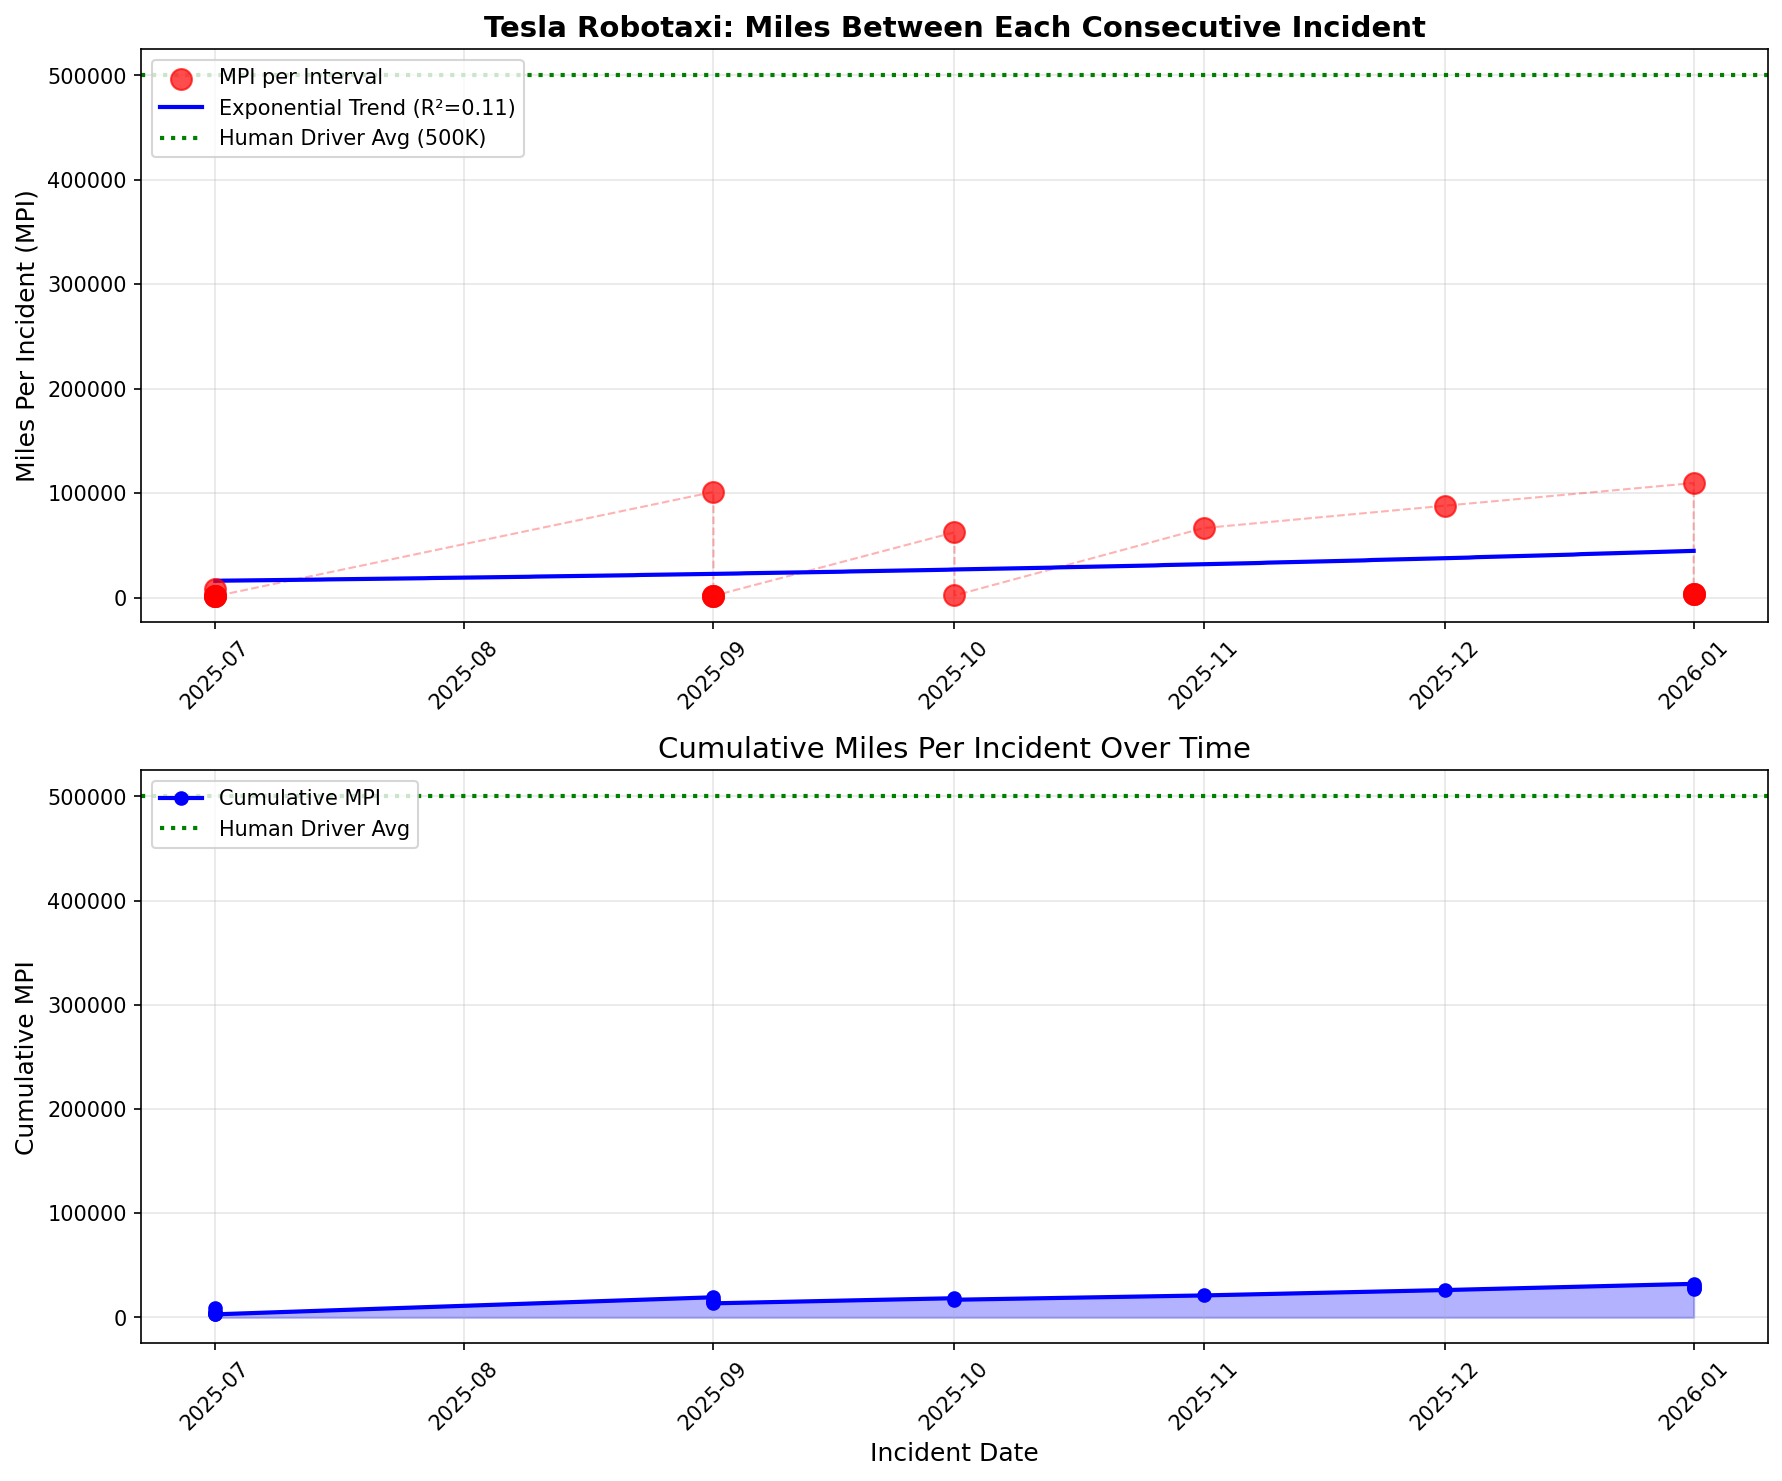
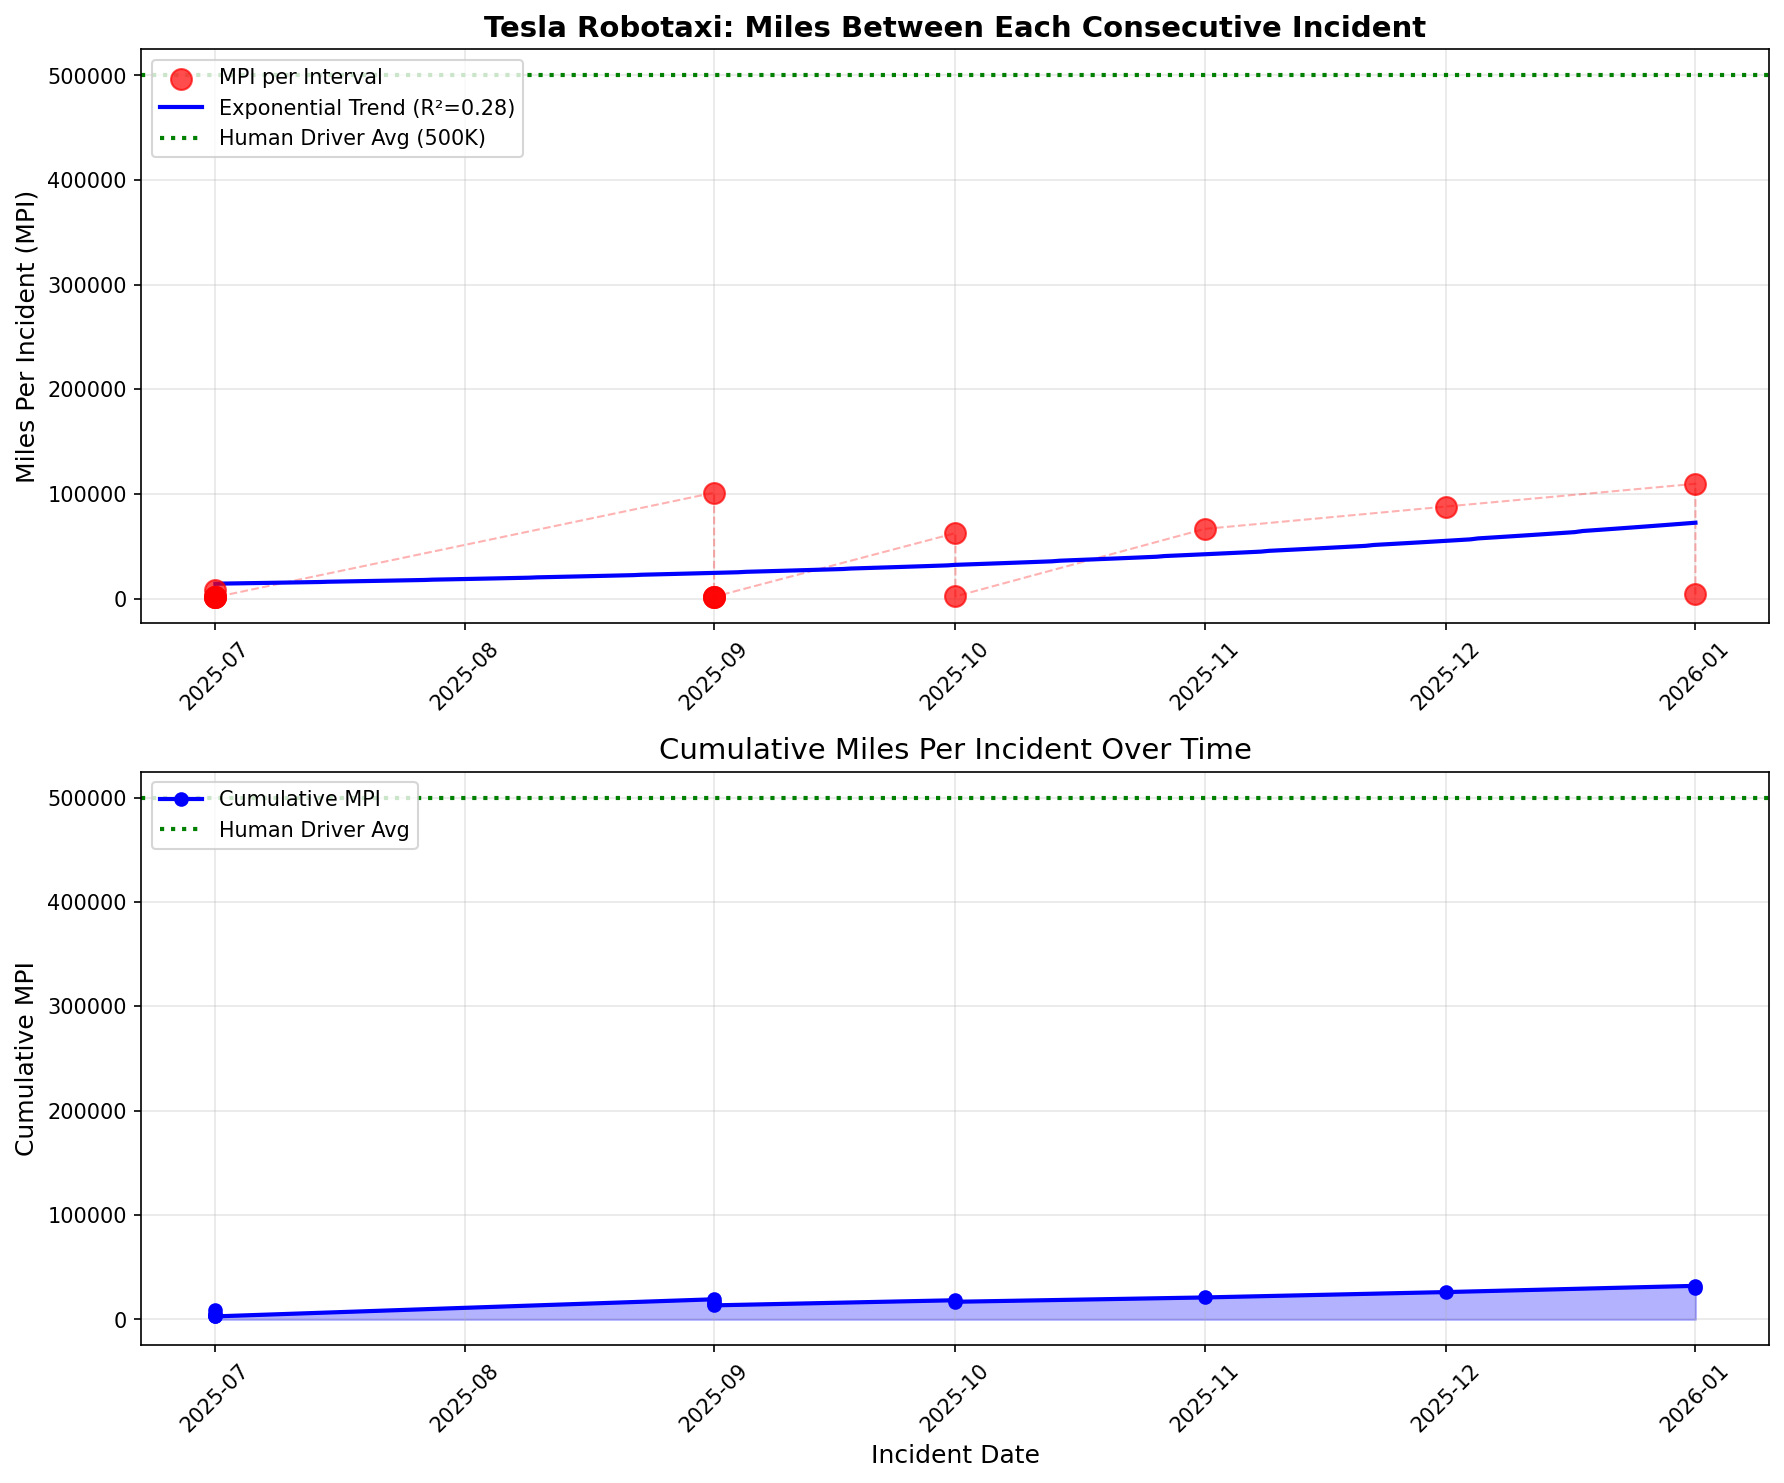
Filter out parking lot/backing incidents from analysis
Excluded 2 low-speed backing incidents (1-2 mph) that are not
safety-relevant for autonomous driving assessment:
- JAN-2026: 1mph backing into pole/tree
- JAN-2026: 2mph backing into fixed object

Results after filtering (15 incidents, down from 17):
- Jul 2025: 5 incidents, MPI 2,829
- Sep 2025: 4 incidents, MPI 26,593
- Oct 2025: 2 incidents, MPI 32,315
- Nov 2025: 1 incident, MPI 66,585
- Dec 2025: 1 incident, MPI 87,975
- Jan 2026: 2 incidents, MPI 56,810 (was 30,360 with backing incidents)

diff --git a/docs/index.html b/docs/index.html
@@ -14,7 +14,7 @@
     </script>
 
     <title>Tesla Robotaxi Safety Tracker | MPI Trends & Incident Data</title>
-    <meta name="description" content="Live Tesla Robotaxi safety data: 3,910 miles per incident, 125-day doubling time, Austin fleet status. Independent tracking of Cybercab crash rates vs human drivers and Waymo.">
+    <meta name="description" content="Live Tesla Robotaxi safety data: 3,910 miles per incident, 78-day doubling time, Austin fleet status. Independent tracking of Cybercab crash rates vs human drivers and Waymo.">
     <meta name="keywords" content="robotaxi safety, Tesla remove safety monitors, when will Tesla robotaxis be unsupervised, robotaxi safety monitor removal, Tesla robotaxi safety signals, conditions for unsupervised robotaxi, Tesla Robotaxi safety tracker, miles per incident Tesla, safety parity thresholds, Tesla vs Waymo safety, robotaxi scaling feasibility, autonomous vehicle safety 2026, Tesla safety drivers Bay Area, Tesla robotaxi crash rate, Tesla robotaxi accidents Austin, Tesla robotaxi 10x crash rate, Tesla robotaxi redacted data, Tesla robotaxi NHTSA incidents, Tesla Cybercab crash frequency, robotaxi crash statistics 2026">
     <meta name="author" content="Kangning Huang">
     <meta name="robots" content="index, follow, max-snippet:-1, max-image-preview:large">
@@ -30,7 +30,7 @@
     <meta property="og:type" content="website">
     <meta property="og:url" content="https://robotaxi-safety-tracker.com/">
     <meta property="og:title" content="Tesla Robotaxi Safety Tracker: When Will Safety Monitors Be Removed at Large Scale?">
-    <meta property="og:description" content="Independent safety tracking: Tesla Cybercab achieving 3,910 miles between incidents in Austin. Safety doubling every 125 days. Compare to human drivers & Waymo.">
+    <meta property="og:description" content="Independent safety tracking: Tesla Cybercab achieving 3,910 miles between incidents in Austin. Safety doubling every 78 days. Compare to human drivers & Waymo.">
     <meta property="og:site_name" content="Robotaxi Safety Tracker">
     <meta property="og:image" content="https://robotaxi-safety-tracker.com/chart-preview.png">
     <meta property="og:image:width" content="1782">
@@ -40,7 +40,7 @@
     <meta name="twitter:card" content="summary_large_image">
     <meta name="twitter:url" content="https://robotaxi-safety-tracker.com/">
     <meta name="twitter:title" content="Tesla Robotaxi Safety Tracker: When Will Safety Monitors Be Removed at Large Scale?">
-    <meta name="twitter:description" content="Live safety data: 3,910 MPI, 125-day doubling time. Track Tesla Cybercab incidents vs human drivers.">
+    <meta name="twitter:description" content="Live safety data: 3,910 MPI, 78-day doubling time. Track Tesla Cybercab incidents vs human drivers.">
     <meta name="twitter:image" content="https://robotaxi-safety-tracker.com/chart-preview.png">
     <meta name="twitter:creator" content="@FytasoK60918">
 

diff --git a/docs/app.js b/docs/app.js
@@ -7,7 +7,7 @@ const incidentData = [
     { date: '2025-10-15', days: 30, fleet: 17, miles: 64630, mpi: 32315, count: 2 },
     { date: '2025-11-12', days: 31, fleet: 18, miles: 66585, mpi: 66585, count: 1 },
     { date: '2025-12-10', days: 30, fleet: 24, miles: 87975, mpi: 87975, count: 1 },
-    { date: '2026-01-10', days: 31, fleet: 32, miles: 121440, mpi: 30360, count: 4 },
+    { date: '2026-01-10', days: 31, fleet: 31, miles: 113620, mpi: 56810, count: 2 },
 ];
 
 // Active fleet MPI data (using active fleet from fleet_growth_active.json)
@@ -18,7 +18,7 @@ const incidentDataActive = [
     { date: '2025-10-15', days: 30, fleet: 20, miles: 70610, mpi: 35305, count: 2 },
     { date: '2025-11-12', days: 31, fleet: 21, miles: 80845, mpi: 80845, count: 1 },
     { date: '2025-12-10', days: 30, fleet: 26, miles: 95220, mpi: 95220, count: 1 },
-    { date: '2026-01-10', days: 31, fleet: 26, miles: 107065, mpi: 26766, count: 4 },
+    { date: '2026-01-10', days: 31, fleet: 26, miles: 100855, mpi: 50427, count: 2 },
 ];
 
 // Latest active fleet size (from fleet_growth_active.json)

diff --git a/scripts/analyze_tesla_incidents.py b/scripts/analyze_tesla_incidents.py
@@ -300,6 +300,16 @@ def filter_tesla_incidents(df: pd.DataFrame, system_type: str, city: str | None 
     else:
         print(f"  Found {len(tesla_df)} Tesla {system_type} incidents")
 
+    # Filter out parking lot / backing incidents (low-speed, not safety-relevant)
+    movement_col = 'SV Pre-Crash Movement'
+    if movement_col in tesla_df.columns:
+        before_count = len(tesla_df)
+        # Exclude 'Backing' incidents - these are typically low-speed parking lot incidents
+        tesla_df = tesla_df[~tesla_df[movement_col].str.contains('Backing', case=False, na=False)]
+        filtered_count = before_count - len(tesla_df)
+        if filtered_count > 0:
+            print(f"  Filtered out {filtered_count} parking lot/backing incidents")
+
     tesla_df['System_Type'] = system_type
     return tesla_df
 
